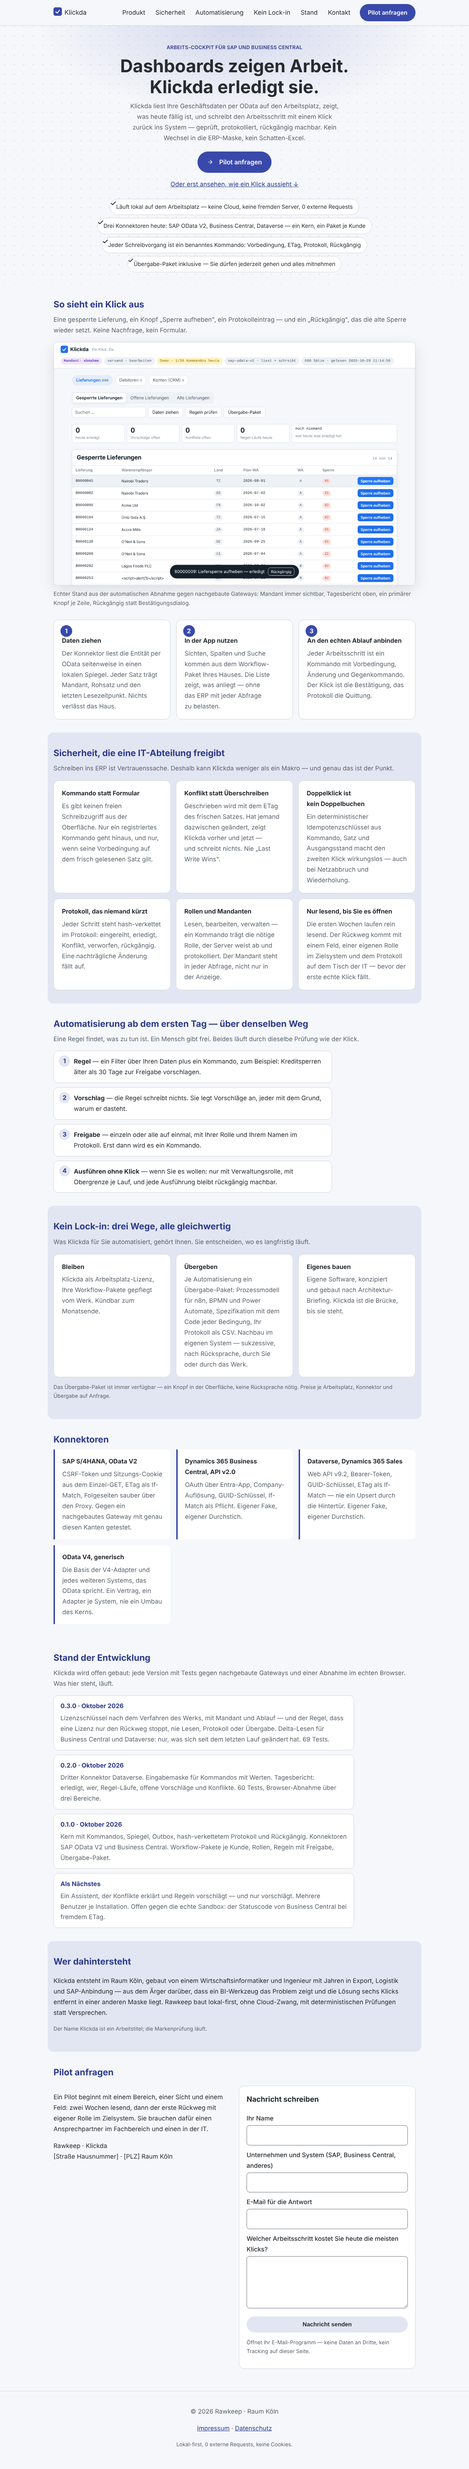
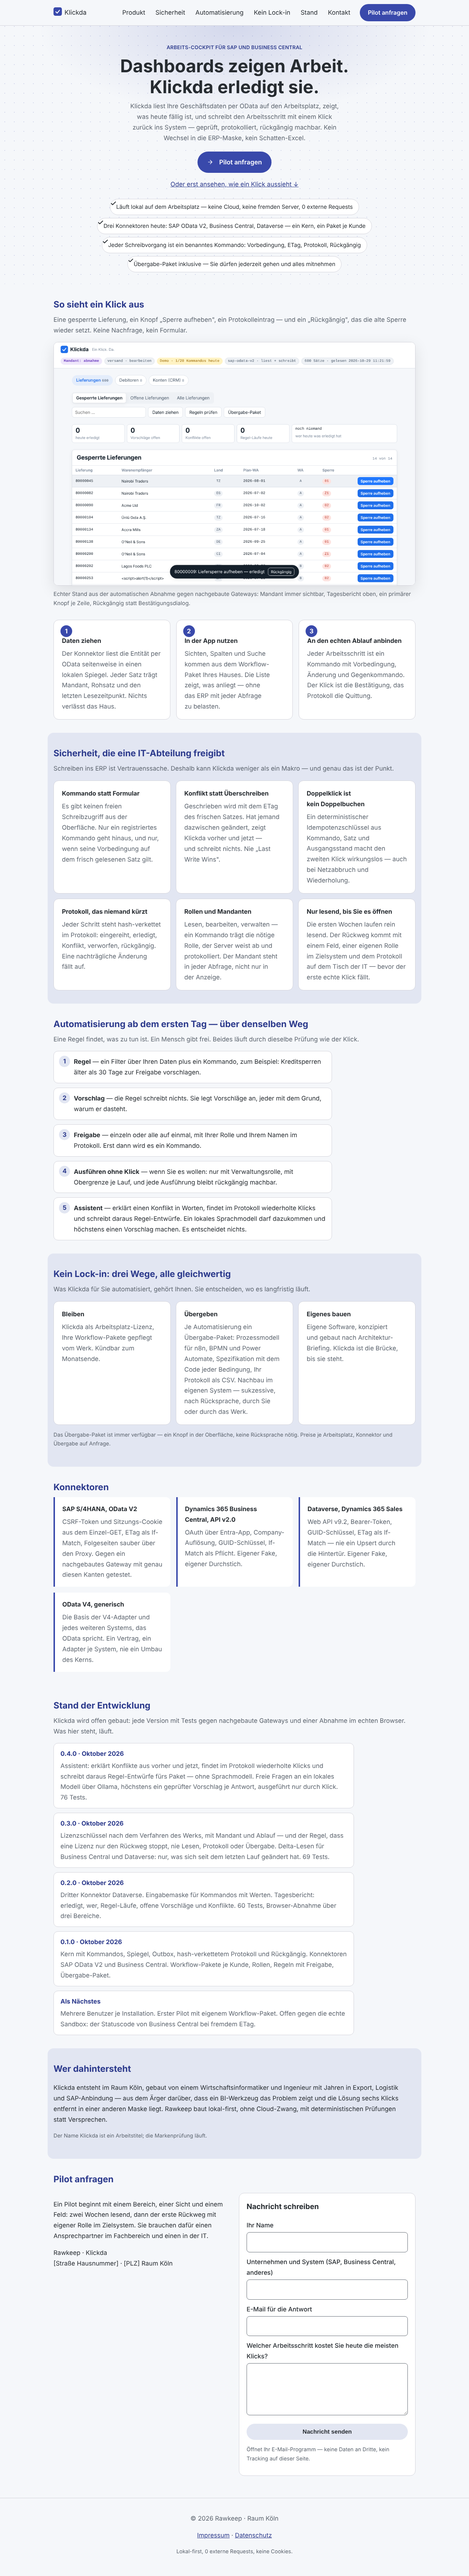
feat: Stand 0.4.0 — Assistent
Claude-Session: https://claude.ai/code/session_01NpRY9PPxXjFZPjqLCCsD2j

Changed region(s): [[0.0938, 0.0, 0.9062, 0.8737], [0.4062, 0.8425, 0.875, 0.9985]]

diff --git a/index.html b/index.html
@@ -114,6 +114,7 @@
       <li><strong>Vorschlag</strong> — die Regel schreibt nichts. Sie legt Vorschläge an, jeder mit dem Grund, warum er dasteht.</li>
       <li><strong>Freigabe</strong> — einzeln oder alle auf einmal, mit Ihrer Rolle und Ihrem Namen im Protokoll. Erst dann wird es ein Kommando.</li>
       <li><strong>Ausführen ohne Klick</strong> — wenn Sie es wollen: nur mit Verwaltungsrolle, mit Obergrenze je Lauf, und jede Ausführung bleibt rückgängig machbar.</li>
+      <li><strong>Assistent</strong> — erklärt einen Konflikt in Worten, findet im Protokoll wiederholte Klicks und schreibt daraus Regel-Entwürfe. Ein lokales Sprachmodell darf dazukommen und höchstens einen Vorschlag machen. Es entscheidet nichts.</li>
     </ol>
   </section>
 
@@ -151,10 +152,11 @@
     <h2 data-reveal>Stand der Entwicklung</h2>
     <p class="abschnitt-intro" data-reveal>Klickda wird offen gebaut: jede Version mit Tests gegen nachgebaute Gateways und einer Abnahme im echten Browser. Was hier steht, läuft.</p>
     <dl class="stand" data-reveal>
+      <div><dt>0.4.0 · Oktober 2026</dt><dd>Assistent: erklärt Konflikte aus vorher und jetzt, findet im Protokoll wiederholte Klicks und schreibt daraus Regel-Entwürfe fürs Paket — ohne Sprachmodell. Freie Fragen an ein lokales Modell über Ollama, höchstens ein geprüfter Vorschlag je Antwort, ausgeführt nur durch Klick. 76 Tests.</dd></div>
       <div><dt>0.3.0 · Oktober 2026</dt><dd>Lizenzschlüssel nach dem Verfahren des Werks, mit Mandant und Ablauf — und der Regel, dass eine Lizenz nur den Rückweg stoppt, nie Lesen, Protokoll oder Übergabe. Delta-Lesen für Business Central und Dataverse: nur, was sich seit dem letzten Lauf geändert hat. 69 Tests.</dd></div>
       <div><dt>0.2.0 · Oktober 2026</dt><dd>Dritter Konnektor Dataverse. Eingabemaske für Kommandos mit Werten. Tagesbericht: erledigt, wer, Regel-Läufe, offene Vorschläge und Konflikte. 60 Tests, Browser-Abnahme über drei Bereiche.</dd></div>
       <div><dt>0.1.0 · Oktober 2026</dt><dd>Kern mit Kommandos, Spiegel, Outbox, hash-verkettetem Protokoll und Rückgängig. Konnektoren SAP OData V2 und Business Central. Workflow-Pakete je Kunde, Rollen, Regeln mit Freigabe, Übergabe-Paket.</dd></div>
-      <div><dt>Als Nächstes</dt><dd>Ein Assistent, der Konflikte erklärt und Regeln vorschlägt — und nur vorschlägt. Mehrere Benutzer je Installation. Offen gegen die echte Sandbox: der Statuscode von Business Central bei fremdem ETag.</dd></div>
+      <div><dt>Als Nächstes</dt><dd>Mehrere Benutzer je Installation. Erster Pilot mit eigenem Workflow-Paket. Offen gegen die echte Sandbox: der Statuscode von Business Central bei fremdem ETag.</dd></div>
     </dl>
   </section>
 
